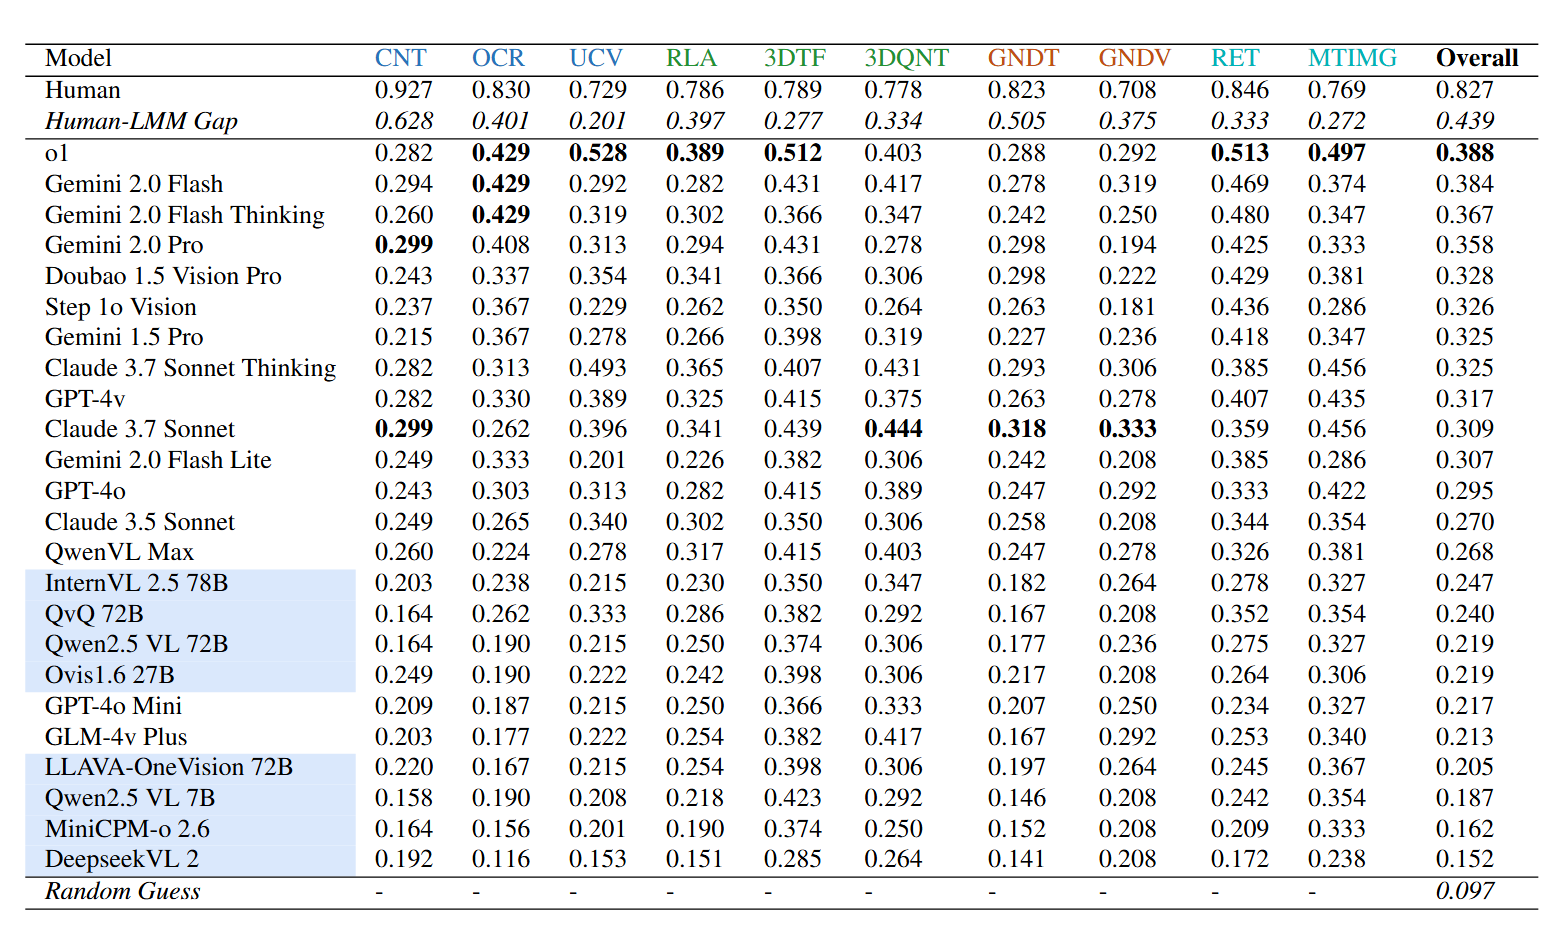
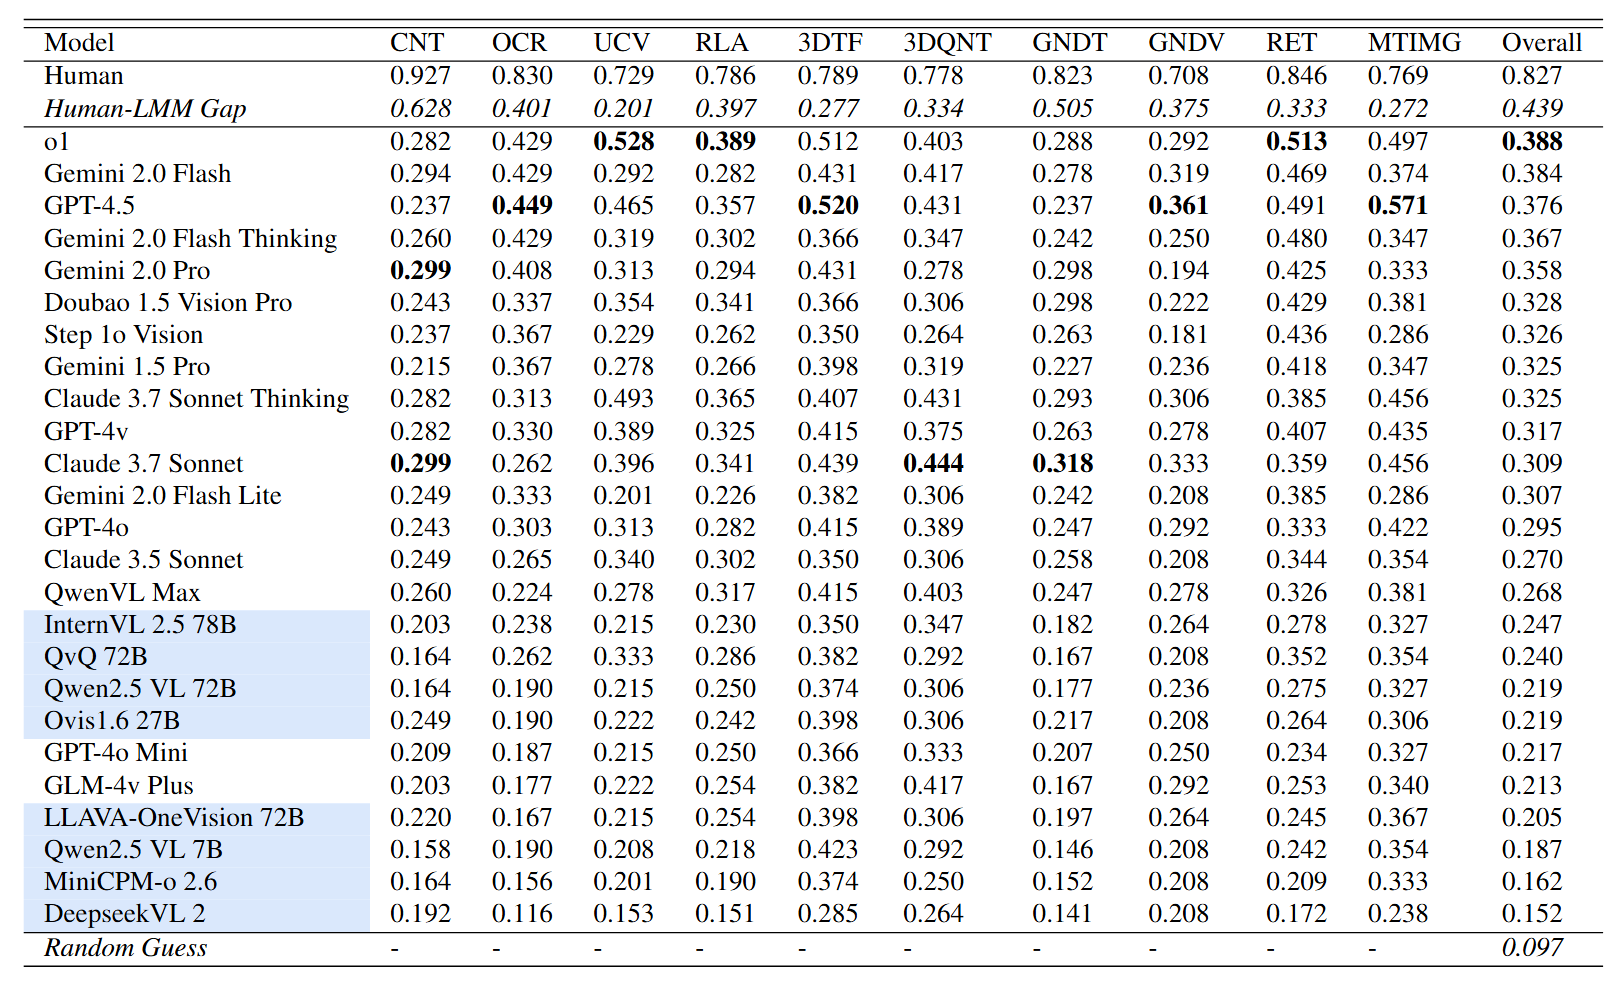
Added results for GPT 4.5, improved presentation of README and website.

Changed region(s): [[0.0, 0.0, 0.984, 0.9968]]

diff --git a/index.html b/index.html
@@ -32,7 +32,8 @@
 
     <h2>News</h2>
     <ul>
-        <li><strong>2025-03-13</strong>: MOAT is now supported by <a href="https://github.com/open-compass/VLMEvalKit" target="_blank">VLMEvalKit</a> now! Try it out!</li>
+        <li><strong>2025-03-19</strong>: Added results for GPT 4.5, see the table below for details.</li>
+        <li><strong>2025-03-13</strong>: MOAT is now supported by <a href="https://github.com/open-compass/VLMEvalKit" target="_blank">VLMEvalKit</a>! Try it out!</li>
         <li><strong>2025-03-12</strong>: We released MOAT on <a href="https://github.com/Cambrian-yzt/MOAT" target="_blank">GitHub</a> and <a href="https://huggingface.co/datasets/waltsun/MOAT" target="_blank">Hugging Face</a>!</li>
     </ul>
 

diff --git a/README.md b/README.md
@@ -23,7 +23,8 @@
 
 ## News
 
-- `2025-03-13` MOAT is now supported by [VLMEvalKit](https://github.com/open-compass/VLMEvalKit) now! Try it out!
+- `2025-03-19` Added results for GPT 4.5, see the table below for details.
+- `2025-03-13` MOAT is now supported by [VLMEvalKit](https://github.com/open-compass/VLMEvalKit)! Try it out!
 - `2025-03-12` We released MOAT on [GitHub](https://github.com/Cambrian-yzt/MOAT) and [Hugging Face](https://huggingface.co/datasets/waltsun/MOAT)!
 
 ## Overview
